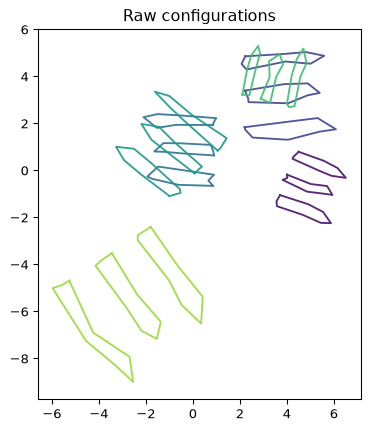
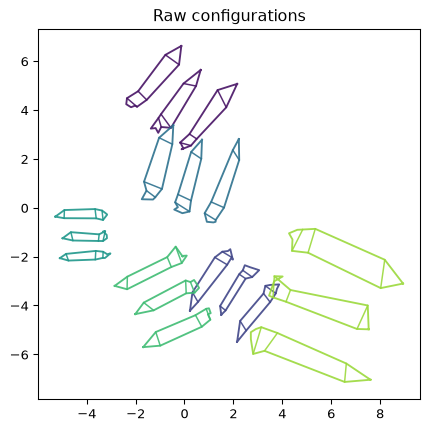
fix(posts): redraw the pencils as real pencils, show the nerve heads
The pencil landmark set was an 8-point lozenge that read as a blunt
wedge. Replace it with 10 landmarks tracing a recognisable pencil --
graphite tip, sharpened shoulders, ferrule joints, eraser cap -- every
one a genuine corner of the silhouette rather than an arbitrary mark
along an edge. The reference drawing's interior lines (the sharpening
line, the two ferrule edges) fall out as chords between landmarks
already in the set, so the picture gains detail without giving GPA
anything spurious to align. Configuration is now 3 x 10 = 30 landmarks;
draw() is parameterised on len(PENCIL) instead of hard-coding 24 and 8.

Seed 20 rather than 11: with longer outlines the six raw copies
overlapped in a heap, and the point of that figure is six separated
coordinate systems.

Also add the fundus photographs from the geomstats tutorial
(notebooks/figures/optic_nerves.png, MIT, (c) 2018 Nina Miolane),
attributed and linked in the caption. The section asserted that glaucoma
changes the optic disc and showed nothing; the pale excavated disc makes
the case in one glance.

Prose is 1200 words, captions and code excluded.

diff --git a/docs/posts/kendall-shape-analysis/index.html b/docs/posts/kendall-shape-analysis/index.html
@@ -255,54 +255,69 @@ window.Quarto = {
 </section>
 <section id="six-freehand-copies-of-the-same-three-pencils" class="level2">
 <h2 class="anchored" data-anchor-id="six-freehand-copies-of-the-same-three-pencils">Six freehand copies of the same three pencils</h2>
-<p>The data is synthetic, deliberately. Each configuration is three pencil outlines — eight landmarks each, 24 in total — and I made six copies, jittering every landmark by about 3% of pencil length before applying a random rotation, a random scale between 0.6 and 1.8, and a random translation.</p>
-<p>That stands in for freehand tracings, where the tracer’s hand position, the paper’s angle and the camera’s zoom vary between sittings and none of it is signal. Simulating beats a real tracing dataset for one reason: I know the truth. Every copy came from one template, so they <em>must</em> land on top of each other, and any residual is jitter I put there rather than a fact about pencils.</p>
+<p>The data is synthetic, deliberately. Each configuration is three pencil outlines — ten landmarks each, 30 in total — and I made six copies, jittering every landmark by about 3% of pencil length before applying a random rotation, a random scale between 0.6 and 1.8, and a random translation.</p>
+<p>That stands in for freehand tracings, where the tracer’s hand position, the paper’s angle and the camera’s zoom vary between sittings — none of it signal. Simulating beats a real tracing dataset for one reason: I know the truth. Every copy came from one template, so they <em>must</em> land on top of each other, and any residual is jitter I put there rather than a fact about pencils.</p>
 <div id="pencil-data" class="cell" data-execution_count="1">
 <details open="" class="code-fold">
 <summary>Code</summary>
 <div class="sourceCode cell-code" id="cb1"><pre class="sourceCode python code-with-copy"><code class="sourceCode python"><span id="cb1-1"><a href="#cb1-1" aria-hidden="true" tabindex="-1"></a><span class="im">import</span> numpy <span class="im">as</span> np</span>
 <span id="cb1-2"><a href="#cb1-2" aria-hidden="true" tabindex="-1"></a><span class="im">import</span> matplotlib.pyplot <span class="im">as</span> plt</span>
 <span id="cb1-3"><a href="#cb1-3" aria-hidden="true" tabindex="-1"></a></span>
-<span id="cb1-4"><a href="#cb1-4" aria-hidden="true" tabindex="-1"></a>rng <span class="op">=</span> np.random.default_rng(<span class="dv">11</span>)</span>
+<span id="cb1-4"><a href="#cb1-4" aria-hidden="true" tabindex="-1"></a>rng <span class="op">=</span> np.random.default_rng(<span class="dv">20</span>)</span>
 <span id="cb1-5"><a href="#cb1-5" aria-hidden="true" tabindex="-1"></a></span>
-<span id="cb1-6"><a href="#cb1-6" aria-hidden="true" tabindex="-1"></a><span class="co"># One pencil: 8 landmarks tracing a closed outline, tip upwards.</span></span>
-<span id="cb1-7"><a href="#cb1-7" aria-hidden="true" tabindex="-1"></a>PENCIL <span class="op">=</span> np.array([</span>
-<span id="cb1-8"><a href="#cb1-8" aria-hidden="true" tabindex="-1"></a>    [<span class="op">-</span><span class="fl">0.25</span>, <span class="fl">0.0</span>], [<span class="fl">0.0</span>, <span class="fl">0.0</span>], [<span class="fl">0.25</span>, <span class="fl">0.0</span>], [<span class="fl">0.25</span>, <span class="fl">1.5</span>],</span>
-<span id="cb1-9"><a href="#cb1-9" aria-hidden="true" tabindex="-1"></a>    [<span class="fl">0.25</span>, <span class="fl">2.4</span>], [<span class="fl">0.0</span>, <span class="fl">3.0</span>], [<span class="op">-</span><span class="fl">0.25</span>, <span class="fl">2.4</span>], [<span class="op">-</span><span class="fl">0.25</span>, <span class="fl">1.5</span>],</span>
-<span id="cb1-10"><a href="#cb1-10" aria-hidden="true" tabindex="-1"></a>])</span>
-<span id="cb1-11"><a href="#cb1-11" aria-hidden="true" tabindex="-1"></a></span>
-<span id="cb1-12"><a href="#cb1-12" aria-hidden="true" tabindex="-1"></a></span>
-<span id="cb1-13"><a href="#cb1-13" aria-hidden="true" tabindex="-1"></a><span class="kw">def</span> template():</span>
-<span id="cb1-14"><a href="#cb1-14" aria-hidden="true" tabindex="-1"></a>    <span class="co">"""Three similar-but-not-identical pencils side by side, as one 24x2 configuration."""</span></span>
-<span id="cb1-15"><a href="#cb1-15" aria-hidden="true" tabindex="-1"></a>    pencils <span class="op">=</span> []</span>
-<span id="cb1-16"><a href="#cb1-16" aria-hidden="true" tabindex="-1"></a>    <span class="cf">for</span> offset, length <span class="kw">in</span> <span class="bu">zip</span>([<span class="op">-</span><span class="fl">1.3</span>, <span class="fl">0.0</span>, <span class="fl">1.3</span>], [<span class="fl">1.0</span>, <span class="fl">0.92</span>, <span class="fl">1.08</span>]):</span>
-<span id="cb1-17"><a href="#cb1-17" aria-hidden="true" tabindex="-1"></a>        p <span class="op">=</span> PENCIL <span class="op">*</span> np.array([<span class="fl">1.0</span>, length])</span>
-<span id="cb1-18"><a href="#cb1-18" aria-hidden="true" tabindex="-1"></a>        pencils.append(p <span class="op">+</span> np.array([offset, <span class="fl">0.0</span>]))</span>
-<span id="cb1-19"><a href="#cb1-19" aria-hidden="true" tabindex="-1"></a>    <span class="cf">return</span> np.vstack(pencils)</span>
-<span id="cb1-20"><a href="#cb1-20" aria-hidden="true" tabindex="-1"></a></span>
-<span id="cb1-21"><a href="#cb1-21" aria-hidden="true" tabindex="-1"></a></span>
-<span id="cb1-22"><a href="#cb1-22" aria-hidden="true" tabindex="-1"></a><span class="kw">def</span> rotation(theta):</span>
-<span id="cb1-23"><a href="#cb1-23" aria-hidden="true" tabindex="-1"></a>    c, s <span class="op">=</span> np.cos(theta), np.sin(theta)</span>
-<span id="cb1-24"><a href="#cb1-24" aria-hidden="true" tabindex="-1"></a>    <span class="cf">return</span> np.array([[c, <span class="op">-</span>s], [s, c]])</span>
-<span id="cb1-25"><a href="#cb1-25" aria-hidden="true" tabindex="-1"></a></span>
+<span id="cb1-6"><a href="#cb1-6" aria-hidden="true" tabindex="-1"></a><span class="co"># One pencil: 10 landmarks tracing a closed outline clockwise from the tip. Every</span></span>
+<span id="cb1-7"><a href="#cb1-7" aria-hidden="true" tabindex="-1"></a><span class="co"># one is a corner of the silhouette -- a point you could find again on another</span></span>
+<span id="cb1-8"><a href="#cb1-8" aria-hidden="true" tabindex="-1"></a><span class="co"># drawing of the same pencil -- rather than an arbitrary mark along a straight edge.</span></span>
+<span id="cb1-9"><a href="#cb1-9" aria-hidden="true" tabindex="-1"></a>PENCIL <span class="op">=</span> np.array([</span>
+<span id="cb1-10"><a href="#cb1-10" aria-hidden="true" tabindex="-1"></a>    [<span class="fl">0.00</span>, <span class="fl">3.00</span>],    <span class="co"># 0  graphite tip</span></span>
+<span id="cb1-11"><a href="#cb1-11" aria-hidden="true" tabindex="-1"></a>    [<span class="fl">0.25</span>, <span class="fl">2.45</span>],    <span class="co"># 1  right shoulder, where the sharpened cone meets the barrel</span></span>
+<span id="cb1-12"><a href="#cb1-12" aria-hidden="true" tabindex="-1"></a>    [<span class="fl">0.25</span>, <span class="fl">0.62</span>],    <span class="co"># 2  right barrel/ferrule joint</span></span>
+<span id="cb1-13"><a href="#cb1-13" aria-hidden="true" tabindex="-1"></a>    [<span class="fl">0.25</span>, <span class="fl">0.20</span>],    <span class="co"># 3  right ferrule/eraser joint</span></span>
+<span id="cb1-14"><a href="#cb1-14" aria-hidden="true" tabindex="-1"></a>    [<span class="fl">0.17</span>, <span class="fl">0.02</span>],    <span class="co"># 4  right corner of the eraser cap</span></span>
+<span id="cb1-15"><a href="#cb1-15" aria-hidden="true" tabindex="-1"></a>    [<span class="fl">0.00</span>, <span class="op">-</span><span class="fl">0.06</span>],   <span class="co"># 5  eraser crown</span></span>
+<span id="cb1-16"><a href="#cb1-16" aria-hidden="true" tabindex="-1"></a>    [<span class="op">-</span><span class="fl">0.17</span>, <span class="fl">0.02</span>],   <span class="co"># 6  left corner of the eraser cap</span></span>
+<span id="cb1-17"><a href="#cb1-17" aria-hidden="true" tabindex="-1"></a>    [<span class="op">-</span><span class="fl">0.25</span>, <span class="fl">0.20</span>],   <span class="co"># 7  left ferrule/eraser joint</span></span>
+<span id="cb1-18"><a href="#cb1-18" aria-hidden="true" tabindex="-1"></a>    [<span class="op">-</span><span class="fl">0.25</span>, <span class="fl">0.62</span>],   <span class="co"># 8  left barrel/ferrule joint</span></span>
+<span id="cb1-19"><a href="#cb1-19" aria-hidden="true" tabindex="-1"></a>    [<span class="op">-</span><span class="fl">0.25</span>, <span class="fl">2.45</span>],   <span class="co"># 9  left shoulder</span></span>
+<span id="cb1-20"><a href="#cb1-20" aria-hidden="true" tabindex="-1"></a>])</span>
+<span id="cb1-21"><a href="#cb1-21" aria-hidden="true" tabindex="-1"></a>K <span class="op">=</span> <span class="bu">len</span>(PENCIL)</span>
+<span id="cb1-22"><a href="#cb1-22" aria-hidden="true" tabindex="-1"></a></span>
+<span id="cb1-23"><a href="#cb1-23" aria-hidden="true" tabindex="-1"></a><span class="co"># Interior detail lines, as chords between landmarks already in the set: the</span></span>
+<span id="cb1-24"><a href="#cb1-24" aria-hidden="true" tabindex="-1"></a><span class="co"># sharpening line, then the two edges of the ferrule band.</span></span>
+<span id="cb1-25"><a href="#cb1-25" aria-hidden="true" tabindex="-1"></a>CHORDS <span class="op">=</span> [(<span class="dv">1</span>, <span class="dv">9</span>), (<span class="dv">2</span>, <span class="dv">8</span>), (<span class="dv">3</span>, <span class="dv">7</span>)]</span>
 <span id="cb1-26"><a href="#cb1-26" aria-hidden="true" tabindex="-1"></a></span>
-<span id="cb1-27"><a href="#cb1-27" aria-hidden="true" tabindex="-1"></a><span class="kw">def</span> freehand_copy(base, rng):</span>
-<span id="cb1-28"><a href="#cb1-28" aria-hidden="true" tabindex="-1"></a>    <span class="co">"""Jitter the landmarks, then move, resize and turn the whole thing."""</span></span>
-<span id="cb1-29"><a href="#cb1-29" aria-hidden="true" tabindex="-1"></a>    drawn <span class="op">=</span> base <span class="op">+</span> rng.normal(<span class="fl">0.0</span>, <span class="fl">0.09</span>, base.shape)</span>
-<span id="cb1-30"><a href="#cb1-30" aria-hidden="true" tabindex="-1"></a>    scale <span class="op">=</span> rng.uniform(<span class="fl">0.6</span>, <span class="fl">1.8</span>)</span>
-<span id="cb1-31"><a href="#cb1-31" aria-hidden="true" tabindex="-1"></a>    shift <span class="op">=</span> rng.uniform(<span class="op">-</span><span class="fl">4.0</span>, <span class="fl">4.0</span>, size<span class="op">=</span><span class="dv">2</span>)</span>
-<span id="cb1-32"><a href="#cb1-32" aria-hidden="true" tabindex="-1"></a>    <span class="cf">return</span> scale <span class="op">*</span> (drawn <span class="op">@</span> rotation(rng.uniform(<span class="dv">0</span>, <span class="dv">2</span> <span class="op">*</span> np.pi)).T) <span class="op">+</span> shift</span>
-<span id="cb1-33"><a href="#cb1-33" aria-hidden="true" tabindex="-1"></a></span>
-<span id="cb1-34"><a href="#cb1-34" aria-hidden="true" tabindex="-1"></a></span>
-<span id="cb1-35"><a href="#cb1-35" aria-hidden="true" tabindex="-1"></a>base <span class="op">=</span> template()</span>
-<span id="cb1-36"><a href="#cb1-36" aria-hidden="true" tabindex="-1"></a>copies <span class="op">=</span> np.stack([freehand_copy(base, rng) <span class="cf">for</span> _ <span class="kw">in</span> <span class="bu">range</span>(<span class="dv">6</span>)])</span>
-<span id="cb1-37"><a href="#cb1-37" aria-hidden="true" tabindex="-1"></a><span class="bu">print</span>(<span class="ss">f"</span><span class="sc">{</span>copies<span class="sc">.</span>shape[<span class="dv">0</span>]<span class="sc">}</span><span class="ss"> copies of a </span><span class="sc">{</span>copies<span class="sc">.</span>shape[<span class="dv">1</span>]<span class="sc">}</span><span class="ss"> x </span><span class="sc">{</span>copies<span class="sc">.</span>shape[<span class="dv">2</span>]<span class="sc">}</span><span class="ss"> configuration"</span>)</span></code><button title="Copy to Clipboard" class="code-copy-button"><i class="bi"></i></button></pre></div>
+<span id="cb1-27"><a href="#cb1-27" aria-hidden="true" tabindex="-1"></a></span>
+<span id="cb1-28"><a href="#cb1-28" aria-hidden="true" tabindex="-1"></a><span class="kw">def</span> template():</span>
+<span id="cb1-29"><a href="#cb1-29" aria-hidden="true" tabindex="-1"></a>    <span class="co">"""Three similar-but-not-identical pencils side by side, as one 30x2 configuration."""</span></span>
+<span id="cb1-30"><a href="#cb1-30" aria-hidden="true" tabindex="-1"></a>    pencils <span class="op">=</span> []</span>
+<span id="cb1-31"><a href="#cb1-31" aria-hidden="true" tabindex="-1"></a>    <span class="cf">for</span> offset, length <span class="kw">in</span> <span class="bu">zip</span>([<span class="op">-</span><span class="fl">1.3</span>, <span class="fl">0.0</span>, <span class="fl">1.3</span>], [<span class="fl">1.0</span>, <span class="fl">0.92</span>, <span class="fl">1.08</span>]):</span>
+<span id="cb1-32"><a href="#cb1-32" aria-hidden="true" tabindex="-1"></a>        p <span class="op">=</span> PENCIL <span class="op">*</span> np.array([<span class="fl">1.0</span>, length])</span>
+<span id="cb1-33"><a href="#cb1-33" aria-hidden="true" tabindex="-1"></a>        pencils.append(p <span class="op">+</span> np.array([offset, <span class="fl">0.0</span>]))</span>
+<span id="cb1-34"><a href="#cb1-34" aria-hidden="true" tabindex="-1"></a>    <span class="cf">return</span> np.vstack(pencils)</span>
+<span id="cb1-35"><a href="#cb1-35" aria-hidden="true" tabindex="-1"></a></span>
+<span id="cb1-36"><a href="#cb1-36" aria-hidden="true" tabindex="-1"></a></span>
+<span id="cb1-37"><a href="#cb1-37" aria-hidden="true" tabindex="-1"></a><span class="kw">def</span> rotation(theta):</span>
+<span id="cb1-38"><a href="#cb1-38" aria-hidden="true" tabindex="-1"></a>    c, s <span class="op">=</span> np.cos(theta), np.sin(theta)</span>
+<span id="cb1-39"><a href="#cb1-39" aria-hidden="true" tabindex="-1"></a>    <span class="cf">return</span> np.array([[c, <span class="op">-</span>s], [s, c]])</span>
+<span id="cb1-40"><a href="#cb1-40" aria-hidden="true" tabindex="-1"></a></span>
+<span id="cb1-41"><a href="#cb1-41" aria-hidden="true" tabindex="-1"></a></span>
+<span id="cb1-42"><a href="#cb1-42" aria-hidden="true" tabindex="-1"></a><span class="kw">def</span> freehand_copy(base, rng):</span>
+<span id="cb1-43"><a href="#cb1-43" aria-hidden="true" tabindex="-1"></a>    <span class="co">"""Jitter the landmarks, then move, resize and turn the whole thing."""</span></span>
+<span id="cb1-44"><a href="#cb1-44" aria-hidden="true" tabindex="-1"></a>    drawn <span class="op">=</span> base <span class="op">+</span> rng.normal(<span class="fl">0.0</span>, <span class="fl">0.09</span>, base.shape)</span>
+<span id="cb1-45"><a href="#cb1-45" aria-hidden="true" tabindex="-1"></a>    scale <span class="op">=</span> rng.uniform(<span class="fl">0.6</span>, <span class="fl">1.8</span>)</span>
+<span id="cb1-46"><a href="#cb1-46" aria-hidden="true" tabindex="-1"></a>    shift <span class="op">=</span> rng.uniform(<span class="op">-</span><span class="fl">4.0</span>, <span class="fl">4.0</span>, size<span class="op">=</span><span class="dv">2</span>)</span>
+<span id="cb1-47"><a href="#cb1-47" aria-hidden="true" tabindex="-1"></a>    <span class="cf">return</span> scale <span class="op">*</span> (drawn <span class="op">@</span> rotation(rng.uniform(<span class="dv">0</span>, <span class="dv">2</span> <span class="op">*</span> np.pi)).T) <span class="op">+</span> shift</span>
+<span id="cb1-48"><a href="#cb1-48" aria-hidden="true" tabindex="-1"></a></span>
+<span id="cb1-49"><a href="#cb1-49" aria-hidden="true" tabindex="-1"></a></span>
+<span id="cb1-50"><a href="#cb1-50" aria-hidden="true" tabindex="-1"></a>base <span class="op">=</span> template()</span>
+<span id="cb1-51"><a href="#cb1-51" aria-hidden="true" tabindex="-1"></a>copies <span class="op">=</span> np.stack([freehand_copy(base, rng) <span class="cf">for</span> _ <span class="kw">in</span> <span class="bu">range</span>(<span class="dv">6</span>)])</span>
+<span id="cb1-52"><a href="#cb1-52" aria-hidden="true" tabindex="-1"></a><span class="bu">print</span>(<span class="ss">f"</span><span class="sc">{</span>copies<span class="sc">.</span>shape[<span class="dv">0</span>]<span class="sc">}</span><span class="ss"> copies of a </span><span class="sc">{</span>copies<span class="sc">.</span>shape[<span class="dv">1</span>]<span class="sc">}</span><span class="ss"> x </span><span class="sc">{</span>copies<span class="sc">.</span>shape[<span class="dv">2</span>]<span class="sc">}</span><span class="ss"> configuration"</span>)</span></code><button title="Copy to Clipboard" class="code-copy-button"><i class="bi"></i></button></pre></div>
 </details>
 <div class="cell-output cell-output-stdout">
-<pre><code>6 copies of a 24 x 2 configuration</code></pre>
+<pre><code>6 copies of a 30 x 2 configuration</code></pre>
 </div>
 </div>
-<p>Plotted as drawn, the six copies share no frame of reference at all.</p>
+<p>Plotted as drawn, they share no frame of reference.</p>
 <div id="cell-fig-pencils-raw" class="cell" data-execution_count="2">
 <details open="" class="code-fold">
 <summary>Code</summary>
@@ -310,18 +325,21 @@ window.Quarto = {
 <span id="cb3-2"><a href="#cb3-2" aria-hidden="true" tabindex="-1"></a></span>
 <span id="cb3-3"><a href="#cb3-3" aria-hidden="true" tabindex="-1"></a></span>
 <span id="cb3-4"><a href="#cb3-4" aria-hidden="true" tabindex="-1"></a><span class="kw">def</span> draw(ax, config, colour, lw<span class="op">=</span><span class="fl">1.4</span>, alpha<span class="op">=</span><span class="fl">0.9</span>):</span>
-<span id="cb3-5"><a href="#cb3-5" aria-hidden="true" tabindex="-1"></a>    <span class="co">"""Draw a 24x2 configuration as three closed 8-landmark outlines."""</span></span>
-<span id="cb3-6"><a href="#cb3-6" aria-hidden="true" tabindex="-1"></a>    <span class="cf">for</span> start <span class="kw">in</span> <span class="bu">range</span>(<span class="dv">0</span>, <span class="dv">24</span>, <span class="dv">8</span>):</span>
-<span id="cb3-7"><a href="#cb3-7" aria-hidden="true" tabindex="-1"></a>        loop <span class="op">=</span> np.vstack([config[start:start <span class="op">+</span> <span class="dv">8</span>], config[start]])</span>
-<span id="cb3-8"><a href="#cb3-8" aria-hidden="true" tabindex="-1"></a>        ax.plot(loop[:, <span class="dv">0</span>], loop[:, <span class="dv">1</span>], color<span class="op">=</span>colour, lw<span class="op">=</span>lw, alpha<span class="op">=</span>alpha)</span>
-<span id="cb3-9"><a href="#cb3-9" aria-hidden="true" tabindex="-1"></a></span>
-<span id="cb3-10"><a href="#cb3-10" aria-hidden="true" tabindex="-1"></a></span>
-<span id="cb3-11"><a href="#cb3-11" aria-hidden="true" tabindex="-1"></a>fig, ax <span class="op">=</span> plt.subplots(figsize<span class="op">=</span>(<span class="fl">6.5</span>, <span class="dv">5</span>))</span>
-<span id="cb3-12"><a href="#cb3-12" aria-hidden="true" tabindex="-1"></a><span class="cf">for</span> config, colour <span class="kw">in</span> <span class="bu">zip</span>(copies, COLOURS):</span>
-<span id="cb3-13"><a href="#cb3-13" aria-hidden="true" tabindex="-1"></a>    draw(ax, config, colour)</span>
-<span id="cb3-14"><a href="#cb3-14" aria-hidden="true" tabindex="-1"></a>ax.set_aspect(<span class="st">"equal"</span>)</span>
-<span id="cb3-15"><a href="#cb3-15" aria-hidden="true" tabindex="-1"></a>ax.set_title(<span class="st">"Raw configurations"</span>)</span>
-<span id="cb3-16"><a href="#cb3-16" aria-hidden="true" tabindex="-1"></a>plt.show()</span></code><button title="Copy to Clipboard" class="code-copy-button"><i class="bi"></i></button></pre></div>
+<span id="cb3-5"><a href="#cb3-5" aria-hidden="true" tabindex="-1"></a>    <span class="co">"""Draw a configuration as three closed pencil outlines plus their detail lines."""</span></span>
+<span id="cb3-6"><a href="#cb3-6" aria-hidden="true" tabindex="-1"></a>    <span class="cf">for</span> start <span class="kw">in</span> <span class="bu">range</span>(<span class="dv">0</span>, <span class="bu">len</span>(config), K):</span>
+<span id="cb3-7"><a href="#cb3-7" aria-hidden="true" tabindex="-1"></a>        pencil <span class="op">=</span> config[start:start <span class="op">+</span> K]</span>
+<span id="cb3-8"><a href="#cb3-8" aria-hidden="true" tabindex="-1"></a>        loop <span class="op">=</span> np.vstack([pencil, pencil[<span class="dv">0</span>]])</span>
+<span id="cb3-9"><a href="#cb3-9" aria-hidden="true" tabindex="-1"></a>        ax.plot(loop[:, <span class="dv">0</span>], loop[:, <span class="dv">1</span>], color<span class="op">=</span>colour, lw<span class="op">=</span>lw, alpha<span class="op">=</span>alpha)</span>
+<span id="cb3-10"><a href="#cb3-10" aria-hidden="true" tabindex="-1"></a>        <span class="cf">for</span> i, j <span class="kw">in</span> CHORDS:</span>
+<span id="cb3-11"><a href="#cb3-11" aria-hidden="true" tabindex="-1"></a>            ax.plot(<span class="op">*</span>pencil[[i, j]].T, color<span class="op">=</span>colour, lw<span class="op">=</span>lw <span class="op">*</span> <span class="fl">0.8</span>, alpha<span class="op">=</span>alpha)</span>
+<span id="cb3-12"><a href="#cb3-12" aria-hidden="true" tabindex="-1"></a></span>
+<span id="cb3-13"><a href="#cb3-13" aria-hidden="true" tabindex="-1"></a></span>
+<span id="cb3-14"><a href="#cb3-14" aria-hidden="true" tabindex="-1"></a>fig, ax <span class="op">=</span> plt.subplots(figsize<span class="op">=</span>(<span class="fl">6.5</span>, <span class="dv">5</span>))</span>
+<span id="cb3-15"><a href="#cb3-15" aria-hidden="true" tabindex="-1"></a><span class="cf">for</span> config, colour <span class="kw">in</span> <span class="bu">zip</span>(copies, COLOURS):</span>
+<span id="cb3-16"><a href="#cb3-16" aria-hidden="true" tabindex="-1"></a>    draw(ax, config, colour)</span>
+<span id="cb3-17"><a href="#cb3-17" aria-hidden="true" tabindex="-1"></a>ax.set_aspect(<span class="st">"equal"</span>)</span>
+<span id="cb3-18"><a href="#cb3-18" aria-hidden="true" tabindex="-1"></a>ax.set_title(<span class="st">"Raw configurations"</span>)</span>
+<span id="cb3-19"><a href="#cb3-19" aria-hidden="true" tabindex="-1"></a>plt.show()</span></code><button title="Copy to Clipboard" class="code-copy-button"><i class="bi"></i></button></pre></div>
 </details>
 <div class="cell-output cell-output-display">
 <div id="fig-pencils-raw" class="quarto-float quarto-figure quarto-figure-center anchored">
@@ -374,10 +392,10 @@ Figure&nbsp;1: Six freehand copies of the same three pencils, before alignment. 
 <span id="cb4-32"><a href="#cb4-32" aria-hidden="true" tabindex="-1"></a><span class="bu">print</span>(<span class="ss">f"residual distance to the mean shape: </span><span class="sc">{</span>residual<span class="sc">.</span><span class="bu">round</span>(<span class="dv">3</span>)<span class="sc">}</span><span class="ss">"</span>)</span></code><button title="Copy to Clipboard" class="code-copy-button"><i class="bi"></i></button></pre></div>
 </details>
 <div class="cell-output cell-output-stdout">
-<pre><code>residual distance to the mean shape: [0.06  0.064 0.076 0.061 0.068 0.069]</code></pre>
+<pre><code>residual distance to the mean shape: [0.074 0.076 0.068 0.071 0.06  0.077]</code></pre>
 </div>
 </div>
-<p>Each copy now sits 0.06 to 0.08 from the mean, on configurations of size exactly 1 — under a tenth of the shape’s own extent, and all of it jitter I put in. Overlaid, the six drawings are one.</p>
+<p>Each copy now sits 0.06 to 0.08 from the mean, on configurations of size exactly 1 — under a tenth of the shape’s own extent, all of it jitter I put in. Overlaid, the six drawings are one.</p>
 <div id="cell-fig-pencils-aligned" class="cell" data-execution_count="4">
 <details open="" class="code-fold">
 <summary>Code</summary>
@@ -406,8 +424,15 @@ Figure&nbsp;2: The same six copies after generalised Procrustes analysis, with t
 </section>
 <section id="eleven-monkeys-twenty-two-optic-nerve-heads" class="level2">
 <h2 class="anchored" data-anchor-id="eleven-monkeys-twenty-two-optic-nerve-heads">Eleven monkeys, twenty-two optic nerve heads</h2>
-<p>For that, a real dataset shipped with <a href="https://geomstats.github.io/"><code>geomstats</code></a>: landmarks on the optic nerve head, from Patrangenaru and Ellingson’s work on nonparametric statistics for object data (2015). Eleven rhesus monkeys, both eyes each, experimental glaucoma induced in one eye and the fellow eye kept as control — 22 configurations of five landmarks in 3D, digitised by vision researchers asking whether raised pressure <em>deforms</em> the nerve head.</p>
-<p>The question here is the one that pairing was designed for: does nerve-head shape differ between a glaucomatous eye and its own control? Glaucoma is staged from the optic disc’s appearance, so misreading one means treating a healthy eye or letting a diseased one go blind.</p>
+<p>For that, a real dataset shipped with <a href="https://geomstats.github.io/"><code>geomstats</code></a>: optic nerve head landmarks from Patrangenaru and Ellingson (2015). Eleven rhesus monkeys, both eyes each, experimental glaucoma induced in one eye and the fellow eye kept as control — 22 configurations of five landmarks in 3D, digitised by vision researchers asking whether raised pressure <em>deforms</em> the nerve head.</p>
+<p>The damage is visible before any mathematics: the glaucomatous disc goes pale and excavated, its cup widening at the rim’s expense.</p>
+<div class="quarto-figure quarto-figure-center">
+<figure class="figure">
+<p><img src="./optic-nerves.png" class="img-fluid figure-img" width="560"></p>
+<figcaption>Normal and glaucomatous optic nerve heads from this study. Image: <a href="https://geomstats.github.io/notebooks/15_real_world_applications__optic_nerve_heads_analysis_in_kendall_shape_space.html">geomstats tutorial</a> (Miolane et al., MIT licence); data from Patrangenaru and Ellingson (2015).</figcaption>
+</figure>
+</div>
+<p>The question here is the one that pairing was designed for: does nerve-head <em>shape</em> differ between a glaucomatous eye and its own control? Glaucoma is staged from that appearance, so misreading one means treating a healthy eye or letting a diseased one go blind.</p>
 <p>Shape analysis fits for a specific reason: five landmarks and 22 configurations is far too little to fit anything, and most of the raw variation is the digitiser’s coordinate frame — where the head sat, how far the camera was — which is not clinical signal. The pipeline deletes exactly that, deterministically, before any statistics happen.</p>
 <div id="nerve-align" class="cell" data-execution_count="5">
 <details open="" class="code-fold">
@@ -548,7 +573,7 @@ Figure&nbsp;4: Left: variance explained by each tangent-space principal componen
 <p>Two components carry 88% of the variation, and the leading mode is almost entirely one landmark: the deepest point V sliding across the disc along the nasal–temporal axis while the rim drifts the other way. What it is <em>not</em> is a glaucoma detector — mean PC1 scores for glaucomatous and control eyes differ by under a hundredth of a standard deviation. These modes separate monkeys, not eyes: a real result, and one only visible once position, size and rotation are gone.</p>
 <section id="caveat-the-flat-map-is-only-honest-locally" class="level3">
 <h3 class="anchored" data-anchor-id="caveat-the-flat-map-is-only-honest-locally">Caveat: the flat map is only honest locally</h3>
-<p>A tangent plane is exact where it touches and progressively wrong away from it, the way Mercator is fine for a city and absurd for Greenland. That is safe here only because these shapes cluster tightly around the mean. Spread them widely and tangent PCA quietly distorts what it measures; the distances to trust then are geodesic ones, computed on the manifold.</p>
+<p>A tangent plane is exact where it touches and wrong away from it — Mercator is fine for a city, absurd for Greenland. That is safe here only because these shapes cluster tightly around the mean. Spread them widely and tangent PCA quietly distorts what it measures; the distances to trust then are geodesic ones, computed on the manifold.</p>
 </section>
 </section>
 <section id="procrustes-had-the-same-idea-and-much-worse-manners" class="level2">

diff --git a/docs/index.html b/docs/index.html
@@ -239,7 +239,7 @@ Reading Time
 <span class="listing-reading-time">5 min</span>
 </td>
 </tr>
[2 lines of base64/hex data omitted]
 <td>
 <span class="listing-image"><img loading="lazy" src="./posts/kendall-shape-analysis/cover.png" style="height: 40px;"></span>
 </td>
@@ -250,7 +250,7 @@ Reading Time
 <a href="./posts/kendall-shape-analysis/index.html" class="title listing-title">What’s Left When You Take Away Position, Size and Angle</a>
 </td>
 <td>
-<span class="listing-reading-time">12 min</span>
+<span class="listing-reading-time">13 min</span>
 </td>
 </tr>
 <tr data-index="2" data-categories="TGluZWFyJTIwQWxnZWJyYSUyQ01hdGhlbWF0aWNz" data-listing-date-sort="1786597200000" data-listing-file-modified-sort="1786660521884" data-listing-date-modified-sort="NaN" data-listing-reading-time-sort="5" data-listing-word-count-sort="913" data-listing-title-sort="The Directions a Matrix Refuses to Turn" data-listing-filename-sort="index.qmd">
